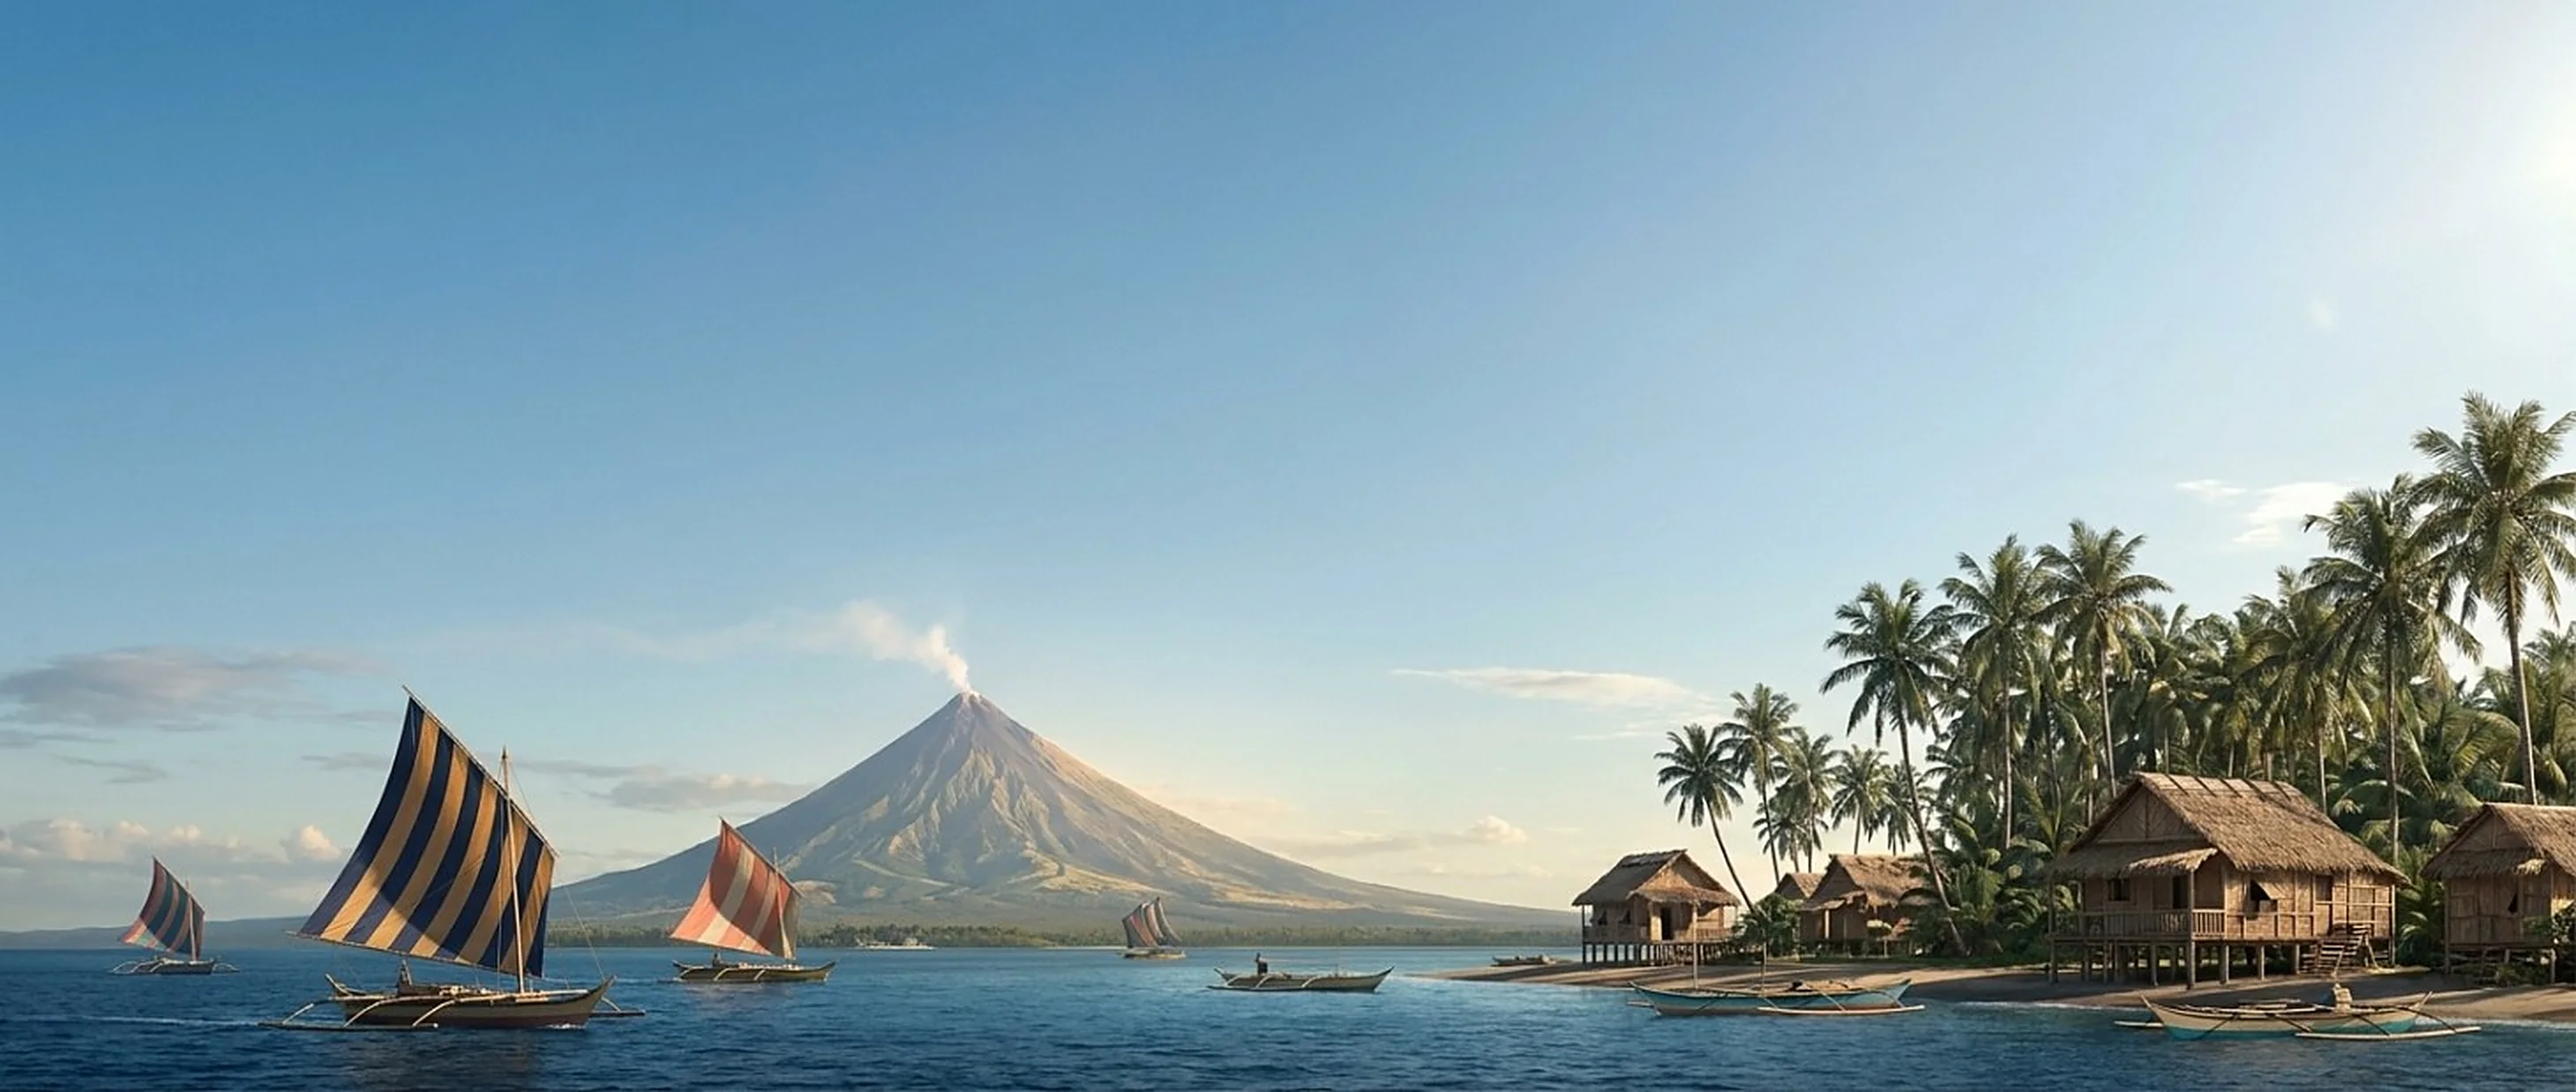
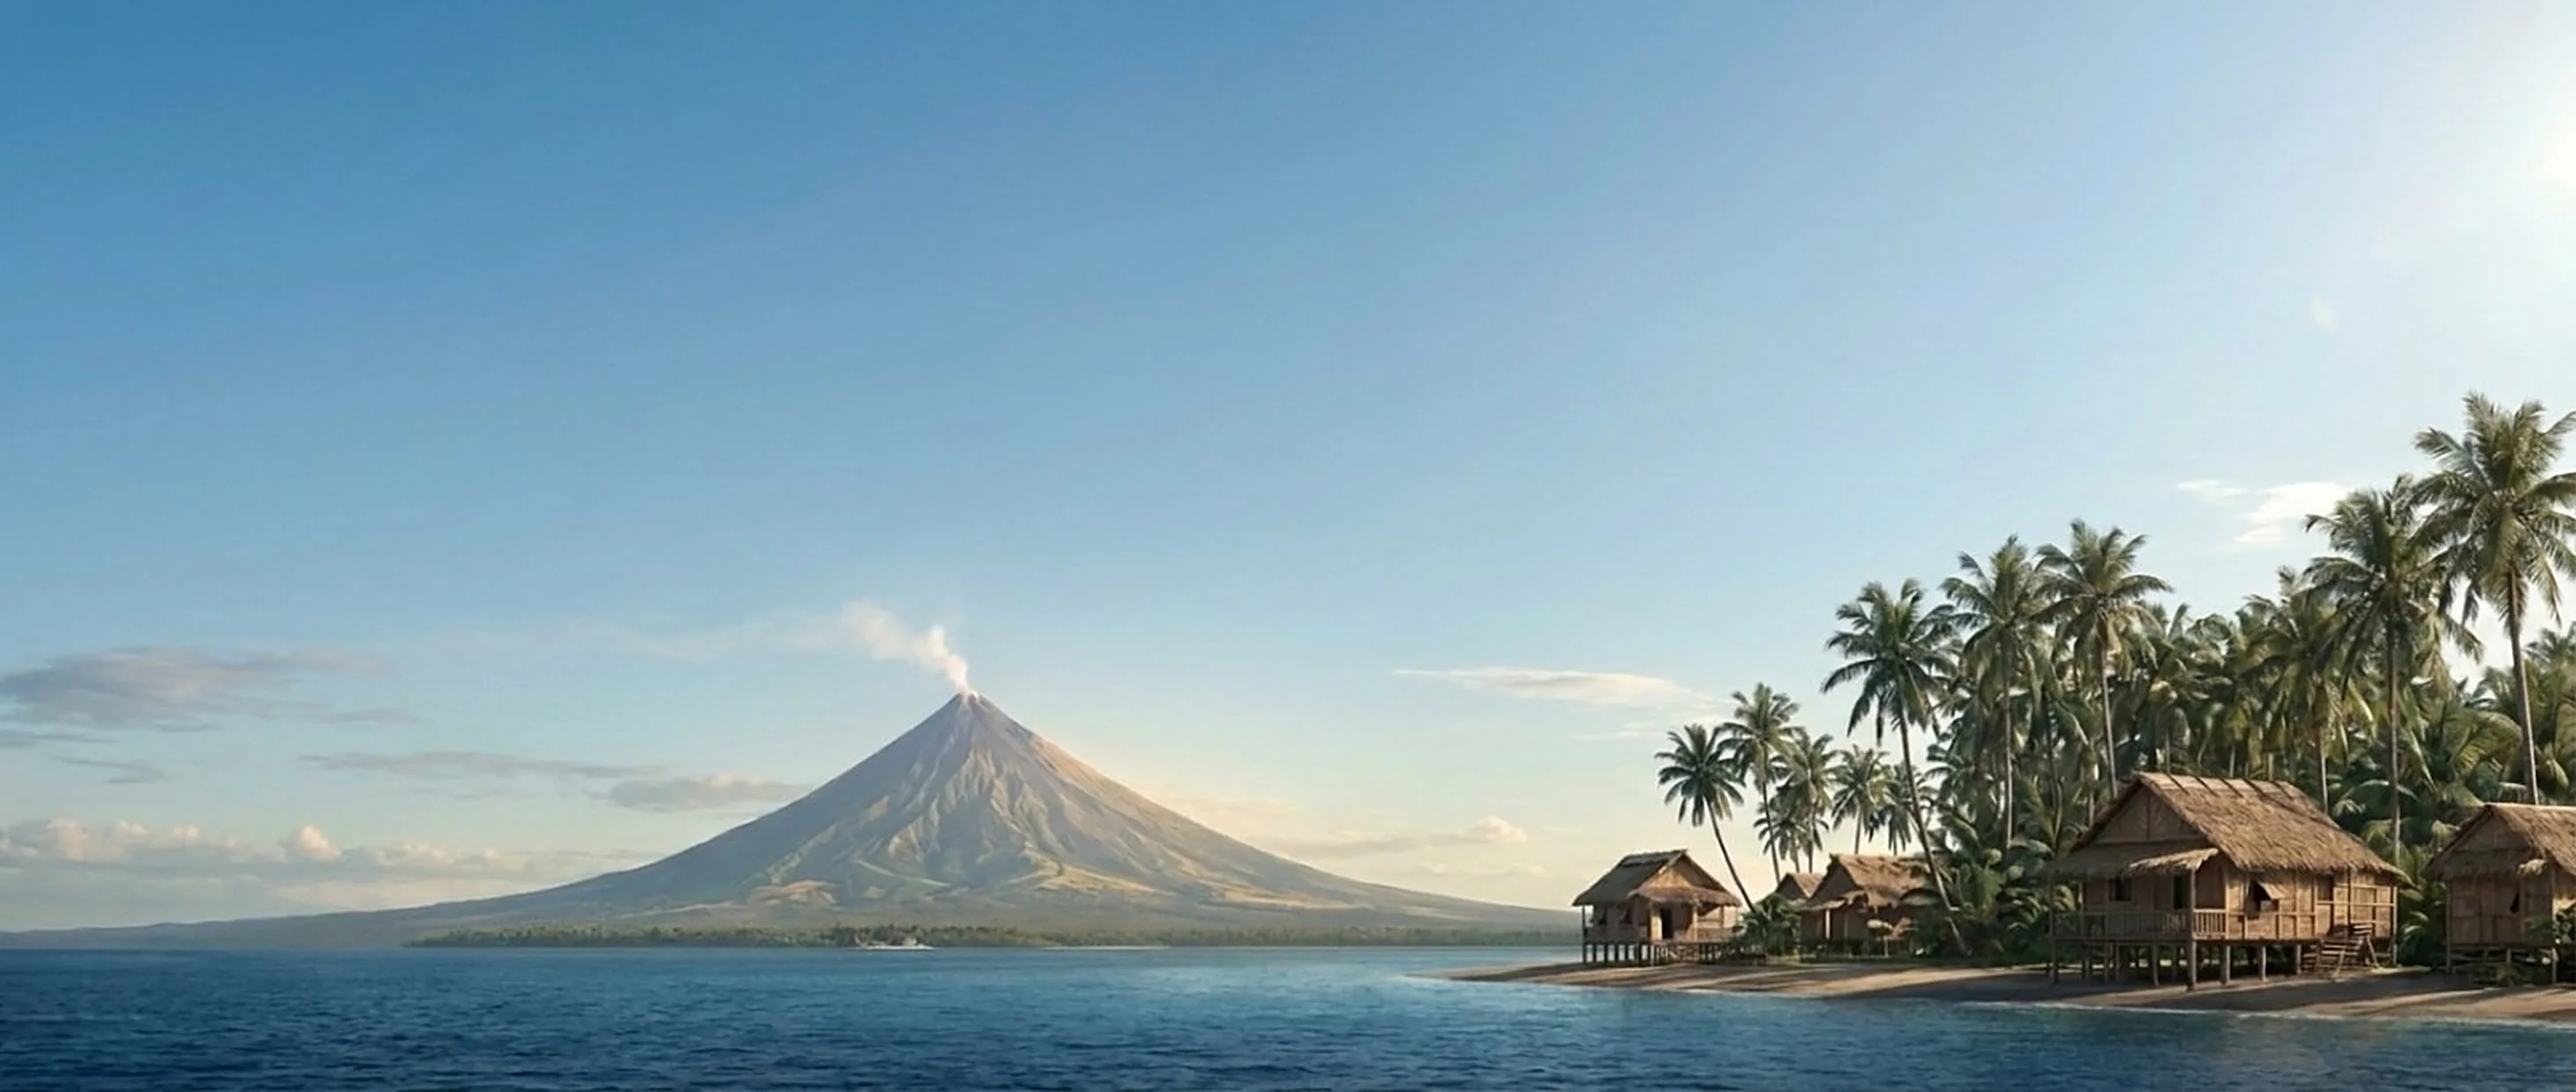
Separate boats on a clean hero painting
The hero background is now the same Mayon scene painted without any boats, and the boats are their own cut-out images placed on the water. Each one rises and falls at its own pace while the painting behind stays still. On phones three of them are moved into the narrow view.

diff --git a/index.html b/index.html
@@ -127,10 +127,13 @@ a { color: inherit; }
 @keyframes twinkle { from { opacity: 0.25; } to { opacity: 1; } }
 [data-theme="dark"] .glints { opacity: 0.22; }
 
-.sail { position: absolute; left: 53.2%; bottom: 5.5%; width: 9.5%; }
-.sail img { display: block; width: 100%; max-width: none; transform-origin: 50% 90%; animation: bob 5.5s ease-in-out infinite; filter: drop-shadow(0 4px 6px rgba(6,24,50,0.35)); transition: filter 2s ease; }
-@keyframes bob { 0%, 100% { transform: translateY(1.3%) rotate(-1.6deg); } 50% { transform: translateY(-1.5%) rotate(1.6deg); } }
-[data-theme="dark"] .sail img { filter: brightness(0.36) saturate(0.6) drop-shadow(0 4px 6px rgba(0,0,0,0.4)); }
+.boat { position: absolute; left: calc(var(--x) * 1%); bottom: calc(var(--b) * 1%); width: calc(var(--w) * 1%); }
+.boat::before { content: ''; position: absolute; left: -4%; right: -4%; bottom: calc(var(--s) * 0.2); height: calc(var(--s) * 1.5); min-height: 5px; border-radius: 50%; background: radial-gradient(closest-side, rgba(4,20,44,0.5), rgba(4,20,44,0)); }
+.boat b { position: relative; display: block; padding-top: 6%; -webkit-mask-image: linear-gradient(#000 calc(100% - var(--s)), transparent calc(100% - var(--s) * 0.3)); mask-image: linear-gradient(#000 calc(100% - var(--s)), transparent calc(100% - var(--s) * 0.3)); }
+.boat.flip b { transform: scaleX(-1); }
+.boat img { display: block; width: 100%; max-width: none; transform-origin: 50% 90%; animation: bob var(--d) ease-in-out var(--dl) infinite; will-change: transform; transition: filter 2s ease; }
+@keyframes bob { 0%, 100% { transform: translateY(var(--a)) rotate(calc(var(--r) * -1)); } 50% { transform: translateY(calc(var(--a) * -1)) rotate(var(--r)); } }
+[data-theme="dark"] .boat img { filter: brightness(0.36) saturate(0.6); }
 
 .birds { position: absolute; left: 0; top: 11%; width: 120px; height: 60px; color: rgba(16,30,56,0.72); animation: fly 52s linear infinite; animation-delay: -14s; transition: opacity 2s ease; will-change: transform; }
 .birds svg { position: absolute; width: 22px; height: 10px; overflow: visible; fill: none; stroke: currentColor; stroke-width: 1.8; stroke-linecap: round; stroke-linejoin: round; transform-origin: 50% 70%; animation: flap 0.55s ease-in-out infinite alternate; }
@@ -385,9 +388,9 @@ footer small { font-size: 0.78rem; font-weight: 500; opacity: 0.8; }
   .switch { margin-left: 0.5rem; }
   .nav ul { display: none; position: absolute; top: 100%; right: 1rem; flex-direction: column; gap: 0.6rem; padding: 1rem 1.6rem; background: var(--card); border: 1.5px solid var(--ink); border-radius: 6px; box-shadow: 5px 5px 0 var(--coral); }
   .nav.open ul { display: flex; }
+  .boat { left: calc(var(--m, var(--x)) * 1%); }
   .hero { --bw: 40vw; --fx: 0.36; min-height: max(100svh, 860px); }
   .stage > .day, .stage > .night { object-position: 36% 100%; }
-  .sail { width: 11%; left: 33.5%; }
   .hero-text { justify-content: flex-start; padding-top: calc(var(--bw) * 0.86 + 1rem); padding-bottom: 36vh; }
   .orb { right: 9%; top: 84px; }
   .band { aspect-ratio: auto; height: 62vw; min-height: 0; }
@@ -411,7 +414,7 @@ footer small { font-size: 0.78rem; font-weight: 500; opacity: 0.8; }
 }
 @media (prefers-reduced-motion: reduce) {
   html { scroll-behavior: auto; }
-  .parol, .stage, .orb .sun::after, #contact::after, .smoke i, .glints::before, .glints::after, .sail img, .birds, .birds svg, .sec-bg i, .sec-bg::before, .waterline .day, .waterline .night, .waterline .rays, .bubbles i { animation: none; }
+  .parol, .stage, .orb .sun::after, #contact::after, .smoke i, .glints::before, .glints::after, .boat img, .birds, .birds svg, .sec-bg i, .sec-bg::before, .waterline .day, .waterline .night, .waterline .rays, .bubbles i { animation: none; }
   .band .day, .band .night { transform: none; }
   .birds, .smoke { display: none; }
   .r { opacity: 1; transform: none; transition: none; }
@@ -449,7 +452,12 @@ footer small { font-size: 0.78rem; font-weight: 500; opacity: 0.8; }
       <img class="night" src="assets/hero-night.webp" alt="" width="2920" height="1238">
       <div class="fx smoke"><i></i><i></i><i></i><i></i><i></i><i></i></div>
       <div class="fx glints"></div>
-      <div class="fx sail"><img src="assets/vinta.webp" alt="" width="767" height="667"></div>
+      <div class="fx boat" style="--x:39.73;--m:37;--b:10.82;--w:4.11;--s:7%;--a:1.4%;--r:1.0deg;--d:4.8s;--dl:-0.8s"><b><img src="assets/vinta-3.webp" alt="" width="334" height="342"></b></div>
+      <div class="fx boat" style="--x:26.54;--m:29.6;--b:8.31;--w:7.19;--s:7%;--a:1.8%;--r:1.3deg;--d:5.6s;--dl:-2.6s"><b><img src="assets/vinta-2.webp" alt="" width="390" height="421"></b></div>
+      <div class="fx boat" style="--x:47.26;--m:40.8;--b:7.03;--w:7.53;--s:16%;--a:2.6%;--r:1.4deg;--d:4.4s;--dl:-3.1s"><b><img src="assets/bangka-1.webp" alt="" width="442" height="268"></b></div>
+      <div class="fx boat" style="--x:10.45;--b:4.88;--w:14.04;--s:7%;--a:1.7%;--r:1.2deg;--d:6.4s;--dl:0.0s"><b><img src="assets/vinta-1.webp" alt="" width="561" height="548"></b></div>
+      <div class="fx boat" style="--x:61.99;--b:4.31;--w:9.59;--s:20%;--a:3.0%;--r:0.9deg;--d:5.0s;--dl:-1.9s"><b><img src="assets/bangka-2.webp" alt="" width="440" height="187"></b></div>
+      <div class="fx boat flip" style="--x:75.68;--b:2.83;--w:10.96;--s:20%;--a:3.2%;--r:1.0deg;--d:5.8s;--dl:-4.2s"><b><img src="assets/bangka-3.webp" alt="" width="443" height="187"></b></div>
     </div>
     <div class="birds"><svg viewBox="0 0 24 10"><path d="M1 7 Q6 0 12 6 Q18 0 23 7"/></svg><svg viewBox="0 0 24 10"><path d="M1 7 Q6 0 12 6 Q18 0 23 7"/></svg><svg viewBox="0 0 24 10"><path d="M1 7 Q6 0 12 6 Q18 0 23 7"/></svg><svg viewBox="0 0 24 10"><path d="M1 7 Q6 0 12 6 Q18 0 23 7"/></svg><svg viewBox="0 0 24 10"><path d="M1 7 Q6 0 12 6 Q18 0 23 7"/></svg></div>
   </div>
